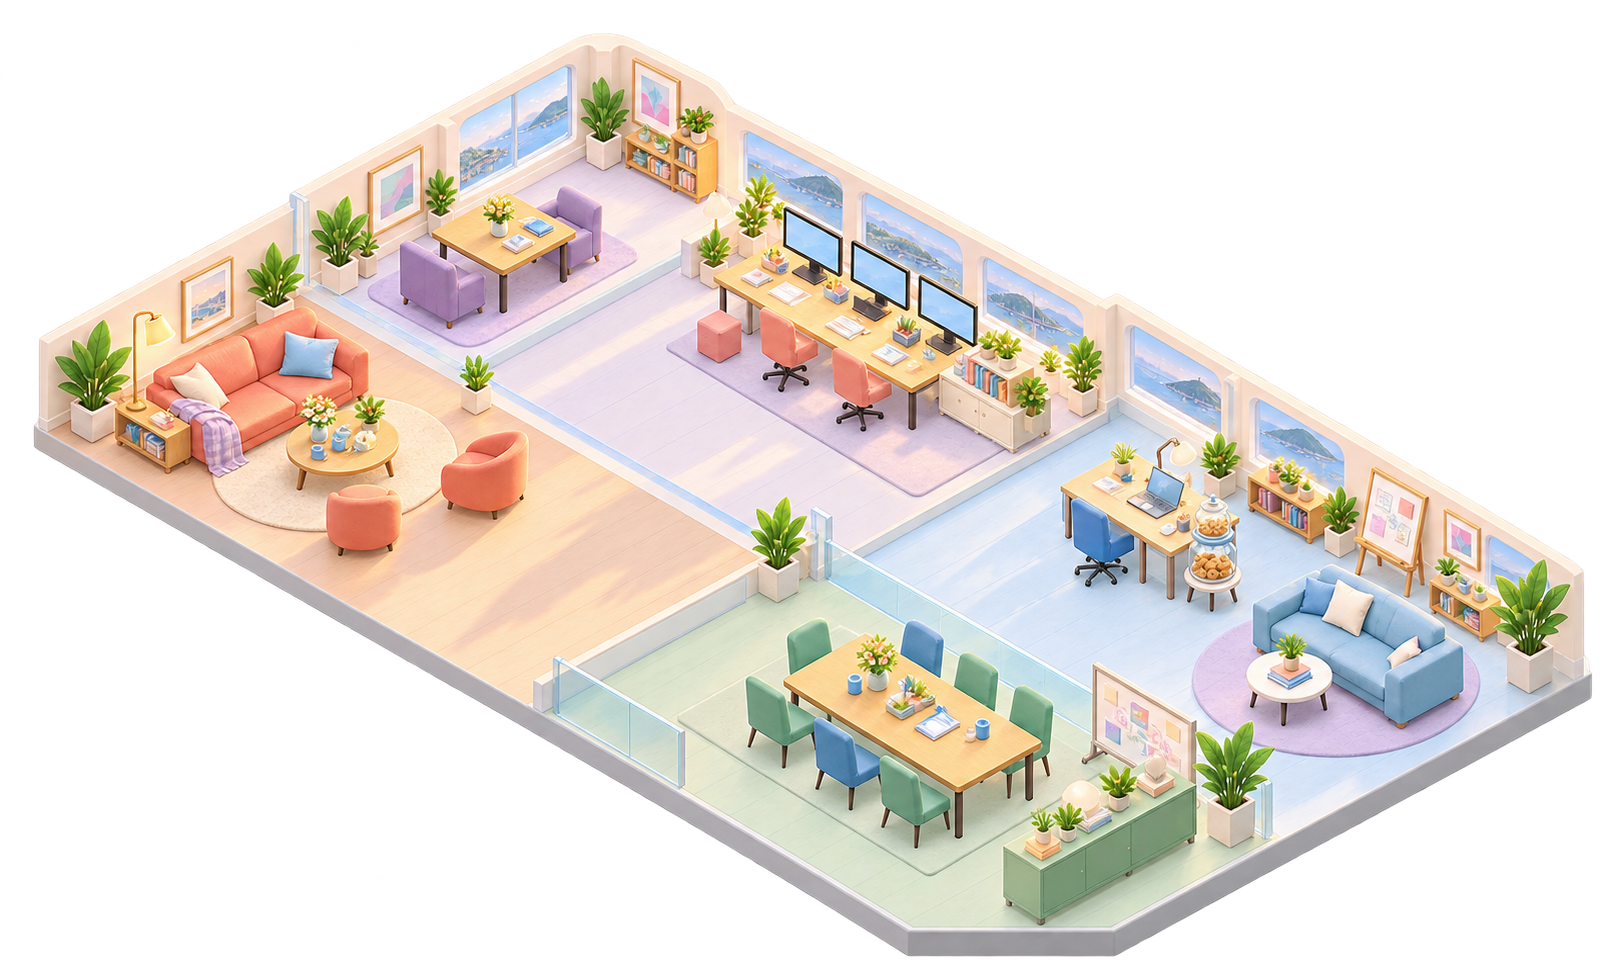
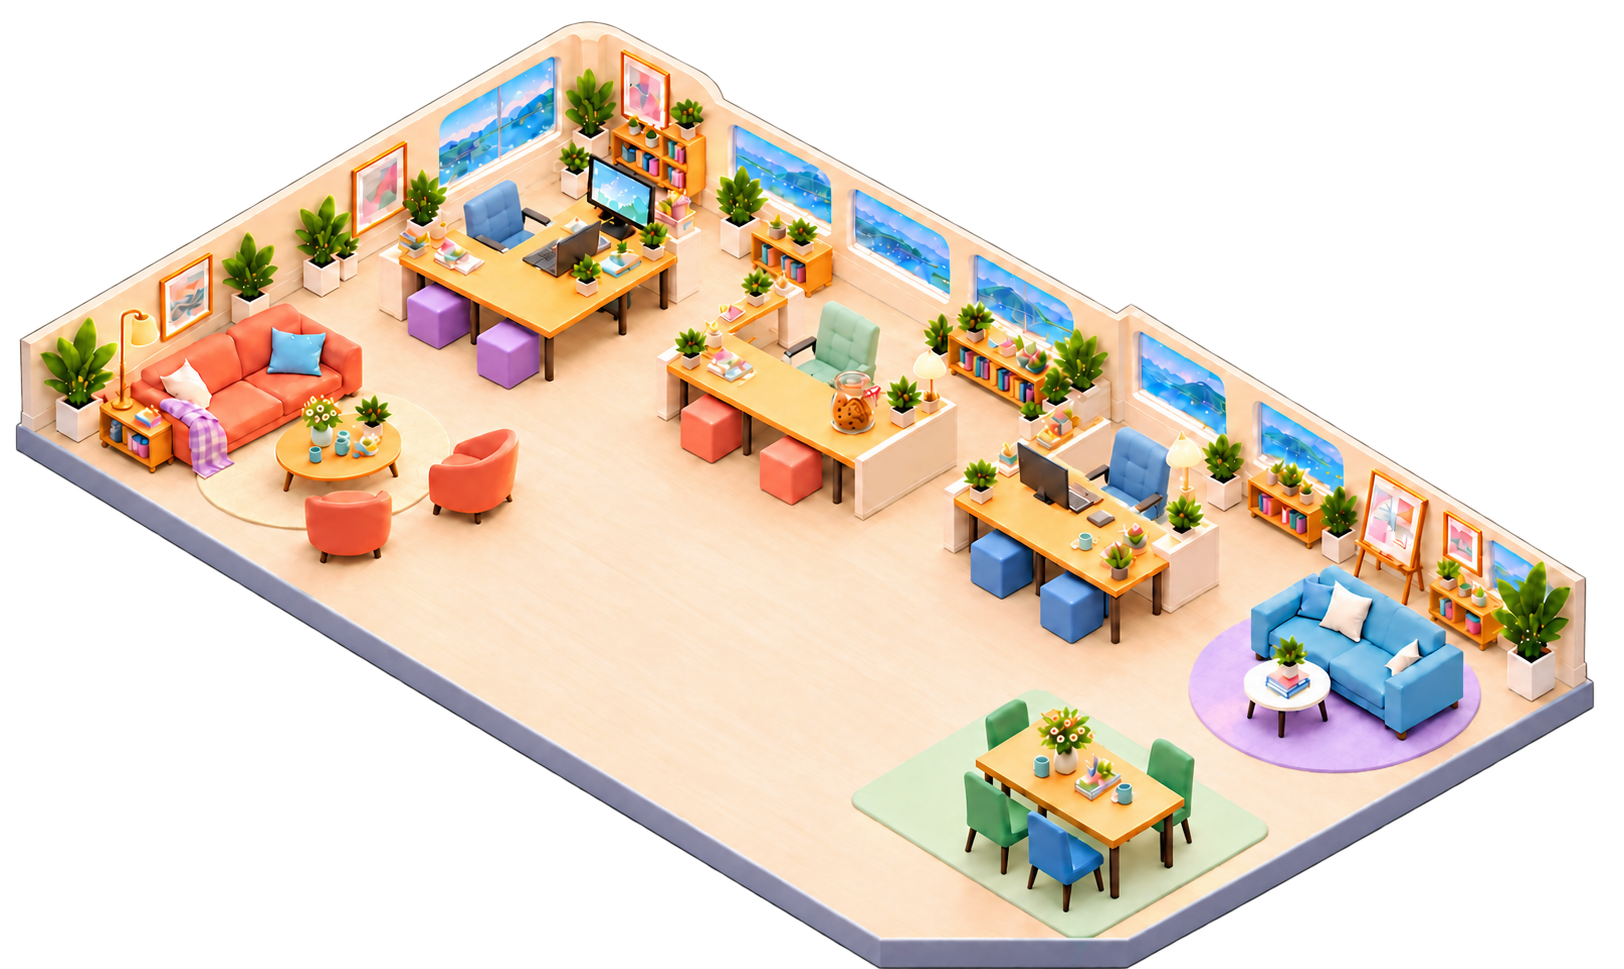
office: add Gy uYeon character modes and balanced shared second floor

diff --git a/office/index.html b/office/index.html
@@ -4,7 +4,7 @@
 <meta name="apple-mobile-web-app-capable" content="yes"><meta name="mobile-web-app-capable" content="yes">
 <meta name="apple-mobile-web-app-status-bar-style" content="default"><meta name="apple-mobile-web-app-title" content="관제탑">
 <meta name="robots" content="noindex"><link rel="apple-touch-icon" href="apple-touch-icon.png?v=1"><link rel="icon" href="icon-512.png">
-</head><body>
+<link rel="stylesheet" href="gyuyeon.css"></head><body>
 <title>관제탑</title>
 <meta name="claude:viewport-fit-sides" content="cover">
 <style>
@@ -183,8 +183,8 @@ aside { background:linear-gradient(180deg,var(--panel),var(--bg)); }
 
 .floor-art{pointer-events:none}.floor-art.loaded ~ .floor-vector{visibility:hidden}#map.artwork-off .floor-art{display:none}#map.artwork-off .floor-vector{visibility:visible}#zart[hidden]{display:none}
 /* 생성 배경의 가구 원근 차이만 보정. 데이터 좌표/선택 대상은 그대로입니다. */
-#map:has(.floor-art.loaded):not(.artwork-off) + #people .av[data-room="tower"]{translate:20px 64px}
-#map:has(.floor-art.loaded):not(.artwork-off) + #people .av[data-room="rue"]{translate:0 65px}
+#map:has(.floor-art.loaded):not(.artwork-off) + #people .av[data-room="tower"]{translate:-75px 30px}
+#map:has(.floor-art.loaded):not(.artwork-off) + #people .av[data-room="rue"]{translate:5px 55px}
 .snapshot-note{font-size:11px;color:var(--muted);line-height:1.65;margin:0 0 10px;padding:8px;background:var(--bg);border-radius:8px}
 #map:has(.floor-art.loaded):not(.artwork-off) + #people .av[data-room="desk"]{translate:18px 38px}
 #map:has(.floor-art.loaded):not(.artwork-off) + #people .av[data-room="dev"]{translate:0 40px}
@@ -229,8 +229,8 @@ const FLOORS = [
 ];
 const ROOMS = [
   { id: 'huddle',   floor: '2F', name: '소회의실',    x: 0,  y: 0, w: 3,  h: 7, color: '#F4F0F8', what: '짧은 논의 · 둘이 맞춰 보기' },
-  { id: 'tower',    floor: '2F', name: '관제탑실',    x: 3,  y: 0, w: 10, h: 7, color: '#F0EEF6', what: '관제탑(이음) 전용 · 전체 현황' },
-  { id: 'rue',      floor: '2F', name: '루에 대표실', x: 13, y: 0, w: 11, h: 7, color: '#ECF7FC', what: '루에(ChatGPT) 대표 자리' },
+  { id: 'tower',    floor: '2F', name: '관제탑실',    x: 3,  y: 0, w: 10.5, h: 7, color: '#F0EEF6', what: '이음 전용 · 루에실과 동일 면적' },
+  { id: 'rue',      floor: '2F', name: '루에 대표실', x: 13.5, y: 0, w: 10.5, h: 7, color: '#ECF7FC', what: '루에 전용 · 관제탑실과 동일 면적' },
   { id: 'lounge',   floor: '2F', name: '라운지',      x: 0,  y: 7, w: 13, h: 6, color: '#FFF7F2', what: '쉬는 중' },
   { id: 'meeting',  floor: '2F', name: '회의실',      x: 13, y: 7, w: 11, h: 6, color: '#EEF7F2', what: '계획 · 할 일 · 연결 도구' },
   { id: 'desk',     floor: '1F', name: '내 자리',     x: 0,  y: 0, w: 13, h: 7, color: '#F3F8FB', what: '답변 · 다음 요청 대기' },
@@ -483,7 +483,7 @@ function furniture(r) {
   return s + finishingTouches(r);
 }
 // 층 배경은 SVG와 동일한 좌표계(1084×650). 준비된 PNG 경로만 이 표에 추가합니다.
-const FLOOR_BACKGROUNDS = { '2F': 'floor-2f.png', '1F': 'floor-1f.png' }; // 예: '2F': 'floor-2f.png'
+const FLOOR_BACKGROUNDS = { '2F': 'floor-2f.png?v=gyuyeon-1', '1F': 'floor-1f.png' }; // 예: '2F': 'floor-2f.png?v=gyuyeon-1'
 function drawFloor(f) {
   let s = `<g data-floor="${f.id}" transform="translate(0 ${floorDy(f.id)})">`;
   let labels='';
@@ -829,4 +829,4 @@ drawMap(); setWide(store.get('vs-wide') === '1'); startData();
 setInterval(stamp, 30000);
 </script>
 
-</body></html>
+<script type="module" src="gyuyeon.js"></script></body></html>

diff --git a/office/gyuyeon.js b/office/gyuyeon.js
@@ -1,0 +1,33 @@
+// Decorative owner avatar only. Never enters task/state/request data.
+const world = document.getElementById('world');
+const app = document.querySelector('.app');
+const assets = { human: 'gyuyeon-human.png', squirrel: 'gyuyeon-squirrel.png' };
+let mode = 'human';
+try { if (localStorage.getItem('office-gyuyeon-mode') === 'squirrel') mode = 'squirrel'; } catch {}
+const avatar = document.createElement('button');
+avatar.type = 'button'; avatar.id = 'gyuyeon-avatar'; avatar.dataset.floor = '2F';
+avatar.className = 'gyuyeon-avatar';
+avatar.innerHTML = '<img alt=""><span class="gyuyeon-name">규연 <small>장식 캐릭터</small></span>';
+const image = avatar.querySelector('img');
+const toggle = document.createElement('button');
+toggle.type = 'button'; toggle.className = 'gyuyeon-toggle';
+toggle.title = '규연의 장식 캐릭터 모습 전환 · 접속 상태와 무관';
+function render() {
+  image.src = assets[mode]; image.alt = mode === 'human' ? '쿠키와 보고서를 든 사람 규연' : '쿠키와 보고서를 든 다람쥐 규연';
+  avatar.setAttribute('aria-label', `${mode === 'human' ? '사람' : '다람쥐'} 규연 · 눌러서 모습 전환 · 장식 캐릭터`);
+  toggle.textContent = mode === 'human' ? '🐿' : '🙂';
+  toggle.title = mode === 'human' ? '다람쥐 규연으로 변신 · 장식 캐릭터' : '사람 규연으로 변신 · 장식 캐릭터';
+  avatar.querySelector('.gyuyeon-name').innerHTML = `규연 · ${mode === 'human' ? '사람' : '다람쥐'} <small>장식</small>`;
+  toggle.setAttribute('aria-label', avatar.getAttribute('aria-label'));
+}
+function change() { mode = mode === 'human' ? 'squirrel' : 'human'; try { localStorage.setItem('office-gyuyeon-mode', mode); } catch {} render(); }
+avatar.onclick = toggle.onclick = change;
+avatar.addEventListener('pointerdown', e => e.stopPropagation());
+avatar.addEventListener('click', e => e.stopPropagation());
+image.onload = () => avatar.classList.add('ready');
+image.onerror = () => avatar.classList.remove('ready');
+world.appendChild(avatar);
+document.querySelector('.zoom').appendChild(toggle);
+const sync = () => { toggle.hidden = app.dataset.floor === '1F'; };
+new MutationObserver(sync).observe(app, { attributes: true, attributeFilter: ['data-floor'] });
+render(); sync();

diff --git a/office/gyuyeon.css b/office/gyuyeon.css
@@ -1,0 +1,5 @@
+.gyuyeon-avatar{position:absolute;left:538px;top:278px;transform:translate(-50%,-100%);border:0;background:none;padding:0;cursor:pointer;z-index:440;display:none;flex-direction:column;align-items:center;gap:3px;width:110px;color:var(--text);font:inherit}
+.gyuyeon-avatar.ready{display:flex}.gyuyeon-avatar img{height:100px;max-width:100px;object-fit:contain;filter:drop-shadow(0 3px 2px #68584a25)}
+.gyuyeon-name{background:var(--card);border:1px solid #edb6a1;border-radius:8px;padding:3px 8px;white-space:nowrap;font-size:11px}.gyuyeon-name small{font-size:9px;color:var(--muted);margin-left:4px}
+.zoom .gyuyeon-toggle{width:34px;height:34px;padding:4px;font-size:19px;line-height:1;background:var(--panel);color:var(--text)}
+.zoom .gyuyeon-toggle[hidden]{display:none}.gyuyeon-avatar:focus-visible,.gyuyeon-toggle:focus-visible{outline:3px solid #67c8f2;outline-offset:4px}
